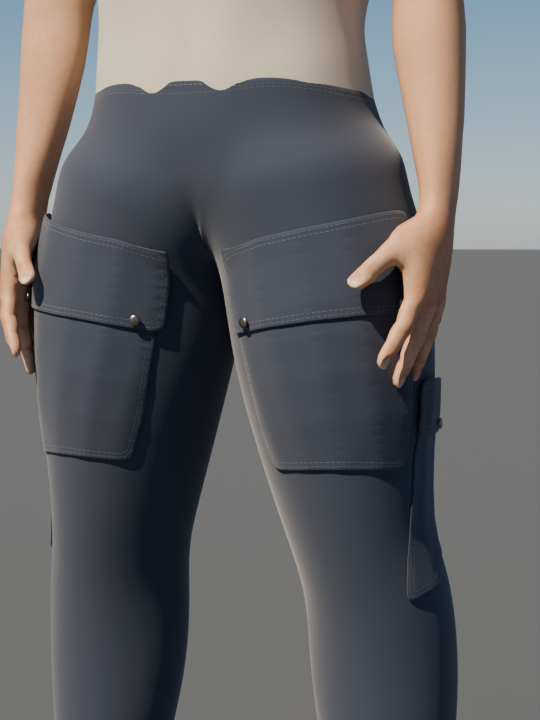
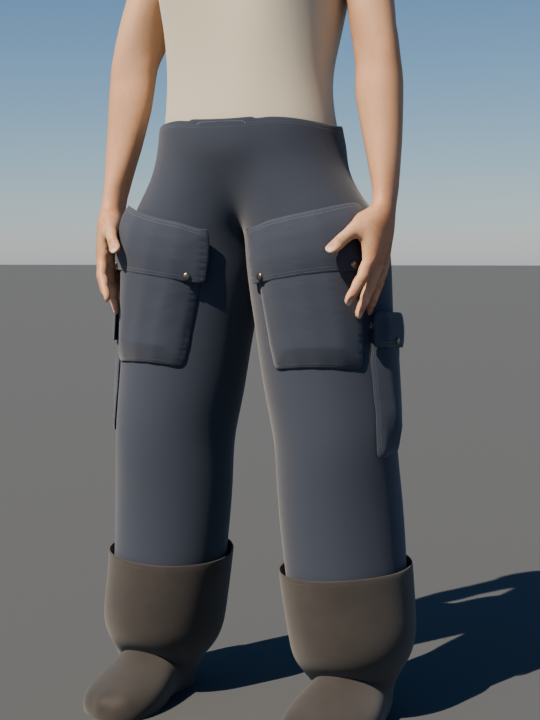
Loose straight-leg trousers, pocket bulge, tucked shirt, flying boots (run 009 step 2)
Claude-Session: https://claude.ai/code/session_01CDvtC8YtMDTCkqUDhevinG

diff --git a/recipes/garments.py b/recipes/garments.py
@@ -108,18 +108,18 @@ def _body_coordinates():
 
 
 def _garment(name, shell, field, ease, thickness, material, skin_margin=0.07, soften=0,
-             smooth_shell=0, snaps=()):
+             smooth_shell=0, snaps=(), cut=None, puff=0.0):
     covered = (set(np.nonzero(field[:human.BODY_VERTS] > skin_margin)[0].tolist())
                if skin_margin and field is not None else set())
     return {"name": name, "shell": shell, "field": field, "ease": ease, "thickness": thickness,
             "material": material, "delete": covered, "soften": soften,
-            "smooth_shell": smooth_shell, "snaps": list(snaps)}
+            "smooth_shell": smooth_shell, "snaps": list(snaps), "cut": cut, "puff": puff}
 
 
 # ------------------------------------------------------------------ catalogue
 
 def top(name="top", sleeve=0.55, hem=-0.10, collar=0.96, ease=0.008, thickness=0.0025,
-        material=None, soften=0):
+        material=None, soften=0, smooth_shell=0):
     """Shirt-like garment. sleeve: 0 sleeveless, 0.55 short, 1.95 long. hem: bottom edge
     relative to the hip joint (negative is lower). collar: 0.9 wide neck, 0.99 high."""
     c = _body_coordinates()
@@ -131,7 +131,8 @@ def top(name="top", sleeve=0.55, hem=-0.10, collar=0.96, ease=0.008, thickness=0
     field = np.where(limb, armhole - c["arm"], field)
     # soften: smoothing passes that melt the body's shape out of a thick outer garment
     return _garment(name, TIGHTS, field, ease, thickness,
-                    material or materials.fabric((0.85, 0.85, 0.82), on="garment"), soften=soften)
+                    material or materials.fabric((0.85, 0.85, 0.82), on="garment"), soften=soften,
+                    smooth_shell=smooth_shell)
 
 
 def baggy_ease(outer=0.032, inner=0.008, waist=0.012, ankle=0.016):
@@ -236,7 +237,7 @@ def _wrap(points, side_left):
 
 def leg_patch(name, s=(0.18, 0.85), theta=(-35.0, 50.0), side="both", ease=0.012,
               thickness=0.0022, material=None, smooth_shell=0, snaps=(), corner=0.012,
-              step=0.008):
+              step=0.008, cut=None, puff=0.0):
     """A flat piece lying on the leg: a patch pocket, a pocket flap, a reinforcement.
 
     Drawn as an exact rounded rectangle in flat leg coordinates and wrapped onto the leg,
@@ -247,6 +248,8 @@ def leg_patch(name, s=(0.18, 0.85), theta=(-35.0, 50.0), side="both", ease=0.012
     degrees (0 front, 90 outside). side: "L", "R" or "both". Give it the trousers' ease
     plus a few millimetres so it sits on top. snaps: list of (s, theta) for press-studs.
     corner: corner radius in metres. step: mesh spacing in metres.
+    cut: the trousers' leg shape (see trousers); pass the same one so the patch lies on them.
+    puff: how far the middle of the patch bulges out, in metres (a filled pocket).
     """
     from mathutils import geometry as geo
     outline = _rounded_rectangle(np.radians(theta[0]) * LEG_RADIUS, np.radians(theta[1]) * LEG_RADIUS,
@@ -276,14 +279,17 @@ def leg_patch(name, s=(0.18, 0.85), theta=(-35.0, 50.0), side="both", ease=0.012
         base += len(uv)
     spec = _garment(name, TIGHTS, None, ease, thickness,
                     material or materials.fabric((0.05, 0.06, 0.09), on="garment"),
-                    skin_margin=None, smooth_shell=smooth_shell, snaps=snaps)
+                    skin_margin=None, smooth_shell=smooth_shell, snaps=snaps, cut=cut, puff=puff)
     spec["explicit"] = {"faces": faces_all, "tri": np.concatenate(tri_all),
                         "weight": np.concatenate(w_all), "uv": np.concatenate(uv_all)}
     return spec
 
 
 def trousers(name="trousers", length=1.93, waist=0.20, ease=0.008, thickness=0.003,
-             material=None, smooth_shell=0):
+             material=None, smooth_shell=0, cut=None):
+    """cut: None for trousers that follow the leg; or a dict giving loose straight legs,
+    e.g. {"thigh": 0.115, "knee": 0.095, "ankle": 0.085, "folds": 0.006} (radii and fold
+    depth in metres)."""
     """length: 0.5 shorts, 1.0 knee, 1.93 ankle. waist: waistband height above the hip
     joint as a fraction of hip-to-neck."""
     c = _body_coordinates()
@@ -291,16 +297,18 @@ def trousers(name="trousers", length=1.93, waist=0.20, ease=0.008, thickness=0.0
     field = np.where(np.isin(c["part"], ("leg", "foot")), np.minimum(field, length - c["leg"]), field)
     field = np.where(np.isin(c["part"], ("arm", "hand")), -FAR, field)
     return _garment(name, TIGHTS, field, ease, thickness, material or materials.denim(),
-                    smooth_shell=smooth_shell)
+                    smooth_shell=smooth_shell, cut=cut)
 
 
-def boots(name="boots", top_at=1.55, ease=0.007, thickness=0.004, material=None):
+def boots(name="boots", top_at=1.55, ease=0.007, thickness=0.004, material=None,
+          smooth_shell=0, cut=None):
     """Soft boot or sock from the foot up to a point on the shin (1.0 knee, 2.0 ankle).
     No separate sole or heel."""
     c = _body_coordinates()
     field = np.where(np.isin(c["part"], ("leg", "foot")), c["leg"] - top_at, -FAR)
     return _garment(name, TIGHTS, field, ease, thickness,
-                    material or materials.plain("Boot leather", (0.06, 0.05, 0.05), 0.45))
+                    material or materials.plain("Boot leather", (0.06, 0.05, 0.05), 0.45),
+                    smooth_shell=smooth_shell, cut=cut)
 
 
 def skirt(name="skirt", length=0.55, ease=0.004, thickness=0.003, material=None):
@@ -458,16 +466,61 @@ def _split_panels(faces, tri, weight, sources, spec):
 _SURFACES = {}
 
 
-def shell_surface(base_verts, iterations):
+def _straight_legs(pos, base_verts, cut):
+    """Push each leg's cross-section out to a wide, nearly straight tube, as loose flight
+    trousers hang, and add soft folds. cut: dict with radii in metres at thigh, knee and
+    ankle, and fold amplitude. The legs are kept from crossing the body's centre plane."""
+    c = _body_coordinates()
+    bones = rig.read_rig("default")
+    vb = human.to_blender(base_verts)
+    joint = lambda name: np.array(rig._position(bones[name]["head"], vb))
+    out = pos.copy()
+    for sd, sign, mask in (("L", 1.0, c["left"]), ("R", -1.0, ~c["left"])):
+        hip, knee, ankle = joint(f"upperleg01.{sd}"), joint(f"lowerleg01.{sd}"), joint(f"foot.{sd}")
+        rows = np.nonzero(mask & (c["part"] == "leg"))[0]
+        s_v = c["leg"][rows]
+        upper = s_v <= 1.0
+        base = np.where(upper[:, None], hip, knee)
+        axis = np.where(upper[:, None], knee - hip, ankle - knee)
+        axis /= np.linalg.norm(axis, axis=1, keepdims=True)
+        rel = pos[rows] - base
+        along = (rel * axis).sum(axis=1)
+        radial = rel - along[:, None] * axis
+        r = np.linalg.norm(radial, axis=1)
+        d = radial / np.maximum(r, 1e-9)[:, None]
+        target = np.interp(s_v, [0.0, 0.15, 1.0, 1.9, 2.2],
+                           [cut["thigh"] * 0.9, cut["thigh"], cut["knee"], cut["ankle"], cut["ankle"]])
+        centre_x = (base + along[:, None] * axis)[:, 0]
+        toward_mid = (d[:, 0] * sign) < -0.05
+        limit = np.where(toward_mid, (np.abs(centre_x) - 0.012) / np.maximum(-d[:, 0] * sign, 0.05), 9.0)
+        target = np.minimum(target, np.maximum(limit, r))
+        width = 0.012
+        grown = r + width * np.log1p(np.exp((target - r) / width))          # smooth maximum
+        grown = r + (grown - r) * np.clip(s_v / 0.18, 0.0, 1.0)             # blend into the seat
+        theta = np.radians(c["theta"][rows])
+        x, y = theta * LEG_RADIUS, s_v * LEG_LENGTH
+        folds = (np.sin(2 * np.pi * (y / 0.15 + x * 0.35 / 0.15) + 0.7)
+                 + 0.7 * np.sin(2 * np.pi * (y / 0.11 - x * 0.5 / 0.11) + 2.1)
+                 + 0.5 * np.sin(2 * np.pi * (y / 0.19 + 0.3)))
+        weight = 0.35 + np.exp(-((s_v - 1.0) / 0.25) ** 2) + np.clip((s_v - 1.55) / 0.35, 0.0, 1.0)
+        grown = grown + cut.get("folds", 0.0) * weight * folds / 2.2
+        out[rows] = base + along[:, None] * axis + d * grown[:, None]
+    return out
+
+
+def shell_surface(base_verts, iterations, cut=None):
     """Positions and normals of the whole tights shell (Blender coordinates), optionally
     smoothed so muscle definition does not show through loose garments. Every garment
     cut from the shell with the same setting lies on the same surface, so pockets sit
     exactly on trousers. Taubin smoothing: alternating shrink and inflate steps keep the
     size from collapsing the way plain averaging would."""
-    key = (iterations, base_verts.shape, float(base_verts[::211].sum()))
+    key = (iterations, base_verts.shape, float(base_verts[::211].sum()),
+           tuple(sorted(cut.items())) if cut else None)
     if key in _SURFACES:
         return _SURFACES[key]
     pos = human.to_blender(base_verts).copy()
+    if cut:
+        pos = _straight_legs(pos, base_verts, cut)
     lo, hi = TIGHTS
     faces = [f for f in human.base_mesh()[2] if all(lo <= v <= hi for v in f)]
     edges = {(min(a, b), max(a, b)) for f in faces for a, b in zip(f, f[1:] + f[:1])}
@@ -600,10 +653,13 @@ def build(scene, base_verts, garment, name, parent=None):
     if tuple(garment["shell"]) == TIGHTS:
         # Garments on the tights shell take position and normal from the (optionally
         # smoothed) whole shell, so separate pieces line up exactly.
-        surf, normals = shell_surface(base_verts, garment.get("smooth_shell", 0))
+        surf, normals = shell_surface(base_verts, garment.get("smooth_shell", 0), garment.get("cut"))
         verts = (surf[tri] * weight[:, :, None]).sum(axis=1)
         n = (normals[tri] * weight[:, :, None]).sum(axis=1)
         n /= np.maximum(np.linalg.norm(n, axis=1, keepdims=True), 1e-12)
+        if garment.get("puff"):                   # a filled pocket bulges in the middle
+            inner, _ = edge_attributes(verts, faces)
+            ease = ease + garment["puff"] * np.clip(inner / 0.035, 0.0, 1.0)[:, None] ** 0.7
     else:
         verts = (all_bl[tri] * weight[:, :, None]).sum(axis=1)
         # Normals are taken before panels are moved apart, so both copies of a seam
@@ -667,7 +723,7 @@ def build_extras(scene, base_verts, garment, name, parent=None):
     s_v = (c["leg"][tri] * weight).sum(axis=1)
     t_v = (c["theta"][tri] * weight).sum(axis=1)
     left_v = c["left"][tri[:, 0]]
-    surf, normals = shell_surface(base_verts, garment.get("smooth_shell", 0))
+    surf, normals = shell_surface(base_verts, garment.get("smooth_shell", 0), garment.get("cut"))
     ease = garment["ease"]
     ease_v = (np.asarray(ease)[tri] * weight).sum(axis=1) if not np.isscalar(ease) else np.full(len(tri), ease)
     pos = (surf[tri] * weight[:, :, None]).sum(axis=1)

diff --git a/runs/009-outfit-detail/trousers.py b/runs/009-outfit-detail/trousers.py
@@ -28,25 +28,33 @@ def twill(name):
 
 
 scene = stage.new_scene()            # first: starting a new scene deletes earlier materials
-baggy = garments.baggy_ease(outer=0.045, inner=0.014, waist=0.014, ankle=0.02)
+# Step 2: the leg shape now comes from a straight wide tube (CUT) rather than inflating
+# the tights, which only made fatter leggings in step 1.
+CUT = {"thigh": 0.118, "knee": 0.098, "ankle": 0.088, "folds": 0.007}
+baggy = garments.baggy_ease(outer=0.012, inner=0.008, waist=0.014, ankle=0.012)
 front_pocket = garments.leg_patch("front_pocket", s=(0.20, 0.86), theta=(-38, 48), ease=baggy + 0.004,
-                                  material=twill("Pocket"), smooth_shell=SMOOTH)
-front_flap = garments.leg_patch("front_flap", s=(0.16, 0.44), theta=(-41, 51), ease=baggy + 0.0075,
-                                thickness=0.003, material=twill("Flap"), smooth_shell=SMOOTH,
+                                  material=twill("Pocket"), smooth_shell=SMOOTH, cut=CUT, puff=0.012)
+front_flap = garments.leg_patch("front_flap", s=(0.16, 0.44), theta=(-41, 51), ease=baggy + 0.0165,
+                                thickness=0.003, material=twill("Flap"), smooth_shell=SMOOTH, cut=CUT, puff=0.006,
                                 snaps=[(0.395, -28), (0.395, 38)])
 side_pocket = garments.leg_patch("side_pocket", s=(0.64, 1.06), theta=(58, 122), ease=baggy + 0.004,
-                                 material=twill("Side pocket"), smooth_shell=SMOOTH)
-side_flap = garments.leg_patch("side_flap", s=(0.60, 0.76), theta=(55, 125), ease=baggy + 0.0075,
-                               thickness=0.003, material=twill("Side flap"), smooth_shell=SMOOTH,
+                                 material=twill("Side pocket"), smooth_shell=SMOOTH, cut=CUT, puff=0.012)
+side_flap = garments.leg_patch("side_flap", s=(0.60, 0.76), theta=(55, 125), ease=baggy + 0.0165,
+                               thickness=0.003, material=twill("Side flap"), smooth_shell=SMOOTH, cut=CUT, puff=0.006,
                                snaps=[(0.72, 90)])
-trousers = garments.trousers(name="trousers", ease=baggy, smooth_shell=SMOOTH, thickness=0.0025,
+trousers = garments.trousers(name="trousers", ease=baggy, smooth_shell=SMOOTH, thickness=0.0025, cut=CUT,
                              material=twill("Trousers"))
-shirt = garments.top(name="shirt", sleeve=0.4, collar=0.99, hem=-0.02, ease=0.014,
+# Tucked in: on the same smoothed base as the trousers, with less ease, so it stays under
+# them at the waist (step 2 showed it poking through).
+shirt = garments.top(name="shirt", sleeve=0.4, collar=0.99, hem=0.08, ease=0.004, smooth_shell=SMOOTH,
                      material=materials.fabric((0.62, 0.58, 0.48), on="garment"))
+boot_leather = materials.matte_leather("Boot", (0.035, 0.03, 0.028), mottle=0.25, roughness=0.6)
+boots = garments.boots(name="boots", top_at=1.5, ease=0.022, thickness=0.004, smooth_shell=SMOOTH,
+                       cut=CUT, material=materials.add_stitches(boot_leather, inset=0.006, color=(0.09, 0.08, 0.07)))
 
 started = time.time()
 pilot = human.build_human(scene, name="Pilot", skin="middleage_caucasian_male", hair="short02",
-                          outfit=(trousers, front_pocket, front_flap, side_pocket, side_flap, shirt),
+                          outfit=(trousers, front_pocket, front_flap, side_pocket, side_flap, shirt, boots),
                           pose="relaxed", **SLIDERS)
 build_seconds = round(time.time() - started, 1)
 
@@ -54,7 +62,8 @@ world.sky_world(scene, sun_elevation_deg=48.0, sun_rotation_deg=200.0, strength=
 bpy.ops.mesh.primitive_plane_add(size=400)
 bpy.context.object.data.materials.append(materials.plain("Tarmac", (0.11, 0.12, 0.13), 0.85))
 aim = stage.empty_at(scene, "Aim", (0.03, 0.0, 0.72))
-camera.camera_at(scene, (0.85, -1.85, 0.86), aim, lens=85.0)
+camera.camera_at(scene, (1.05, -2.3, 0.80), aim, lens=70.0)   # wider: whole leg to the ankle
+aim.location = (0.02, 0.0, 0.62)
 color.set_view(scene, "AgX", look="Medium High Contrast")
 render.cycles_cpu(scene, width=W, height=H, samples=SAMPLES)
 out = render.render_to(scene, os.path.join(HERE, "trousers.png"))
